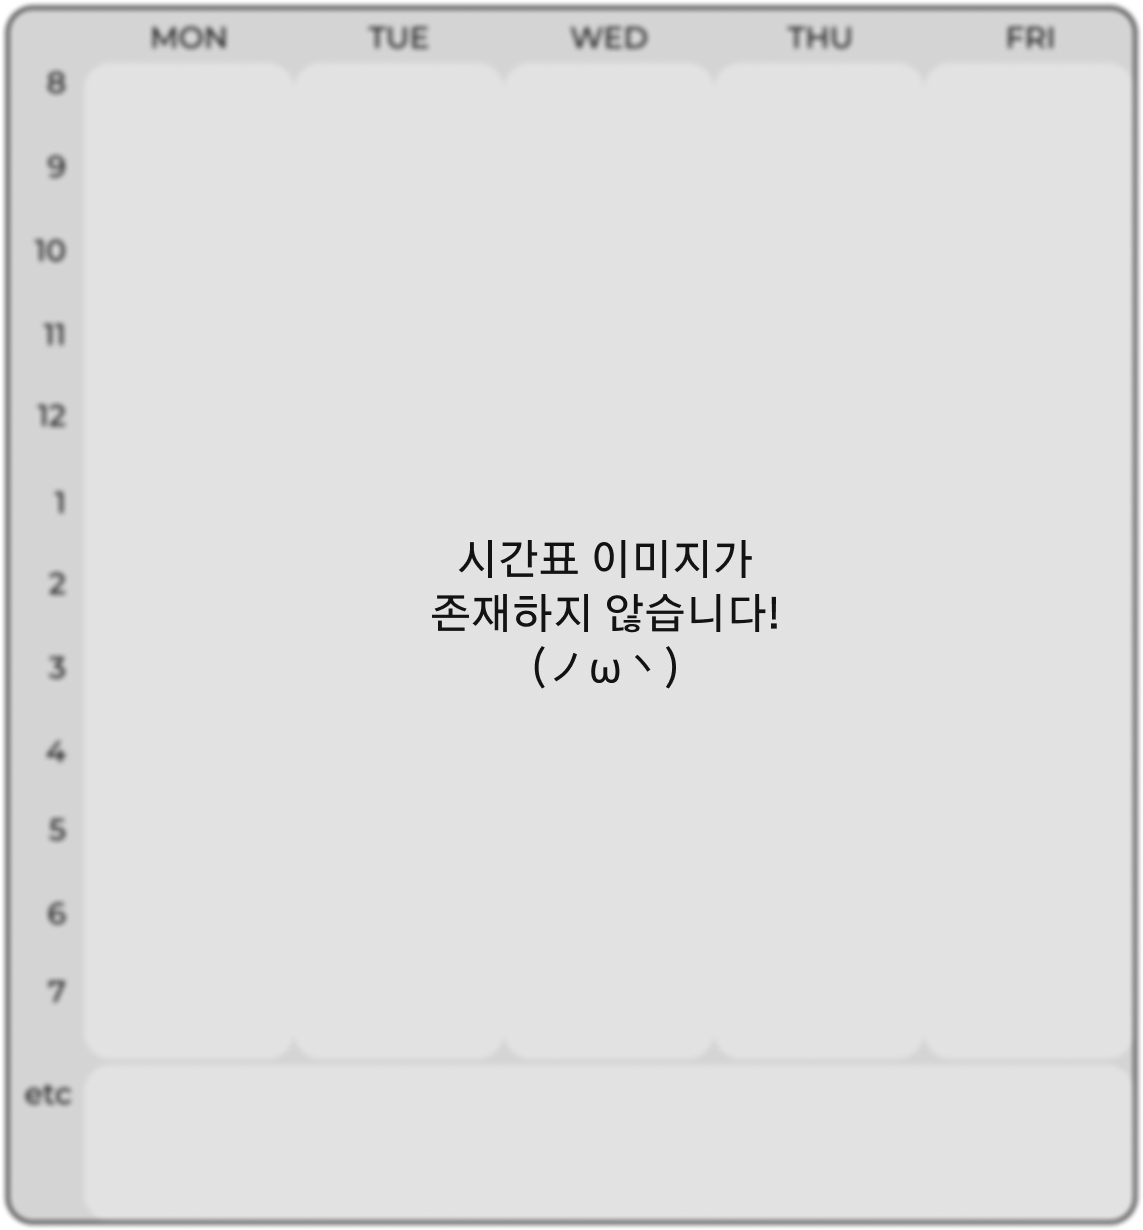
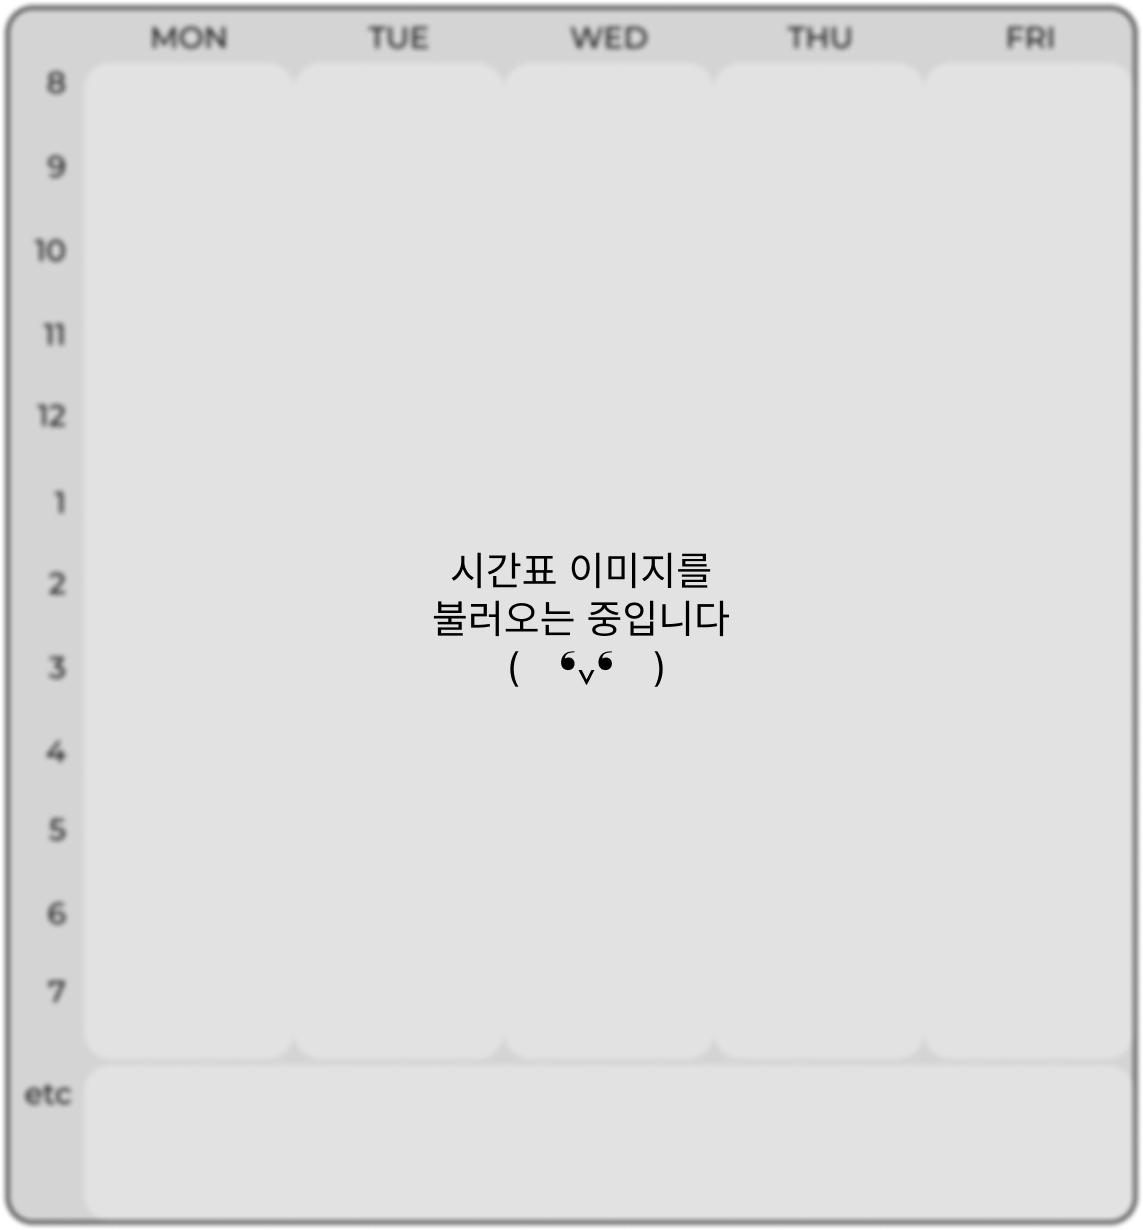
fix: 대체 이미지 변경

Changed region(s): [[0.3675, 0.4325, 0.6737, 0.5561]]

diff --git a/src/components/rankingpage/RankDetail.jsx b/src/components/rankingpage/RankDetail.jsx
@@ -31,11 +31,6 @@ const RankDetail = ({
         setLoading(false);
     }, [currentUserId]);
 
-    // useEffect(() => {
-    //     console.log('currentUserId', currentUserId);
-    //     setLoading(false);
-    // }, [currentUser]);
-
     return loading || rankLoading ? (
         <RightSectionSkeleton />
     ) : (
